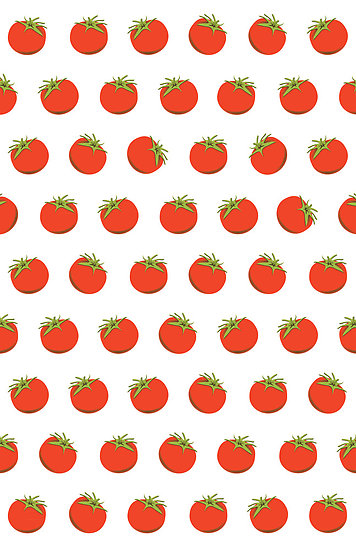
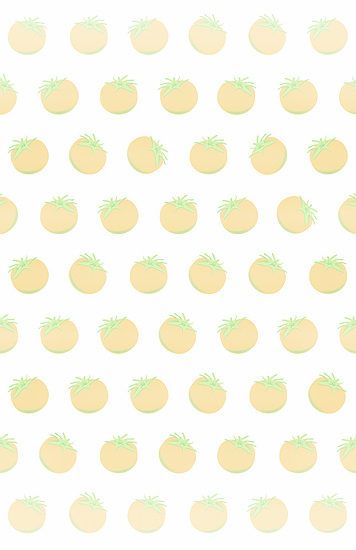
final
asdfasdf

diff --git a/pomadore/pomadore7/homepage.html b/pomadore/pomadore7/homepage.html
@@ -6,7 +6,7 @@
     <link rel="stylesheet" href="chrome://resources/css/widgets.css">
     <style type="text/css">
       body {
-        background: url(icons/work_full.png) no-repeat fixed right bottom;
+		background-image: url("bg.jpg");
         font-family: Helvetica;
         color: rgb(48, 57, 66);
         -webkit-user-select: none;
@@ -100,7 +100,7 @@
   </head>
   <body>
     <h1 data-i18n="options_title"></h1>
-	<h2> Pomadore works by implementing the doro method, which involves 25 minutes of studying with a 5 minute break. On every 4th round, the user earns a 15 minute break. Input the number of rounds you want to work. After saving changes, press the icon to start the timer. </h2>
+	<h2> Pomadore works by implementing the pomodoro method, which involves 25 minutes of studying with a 5 minute break. On every 4th round, the user earns a 15 minute break. Input the number of rounds you want to work. After saving changes, press the icon to start the timer. </h2>
     <p id="work-block-info" data-i18n="options_work_block_info"></p>
     <form id="options-form">
       <div id="site-list-wrapper">
